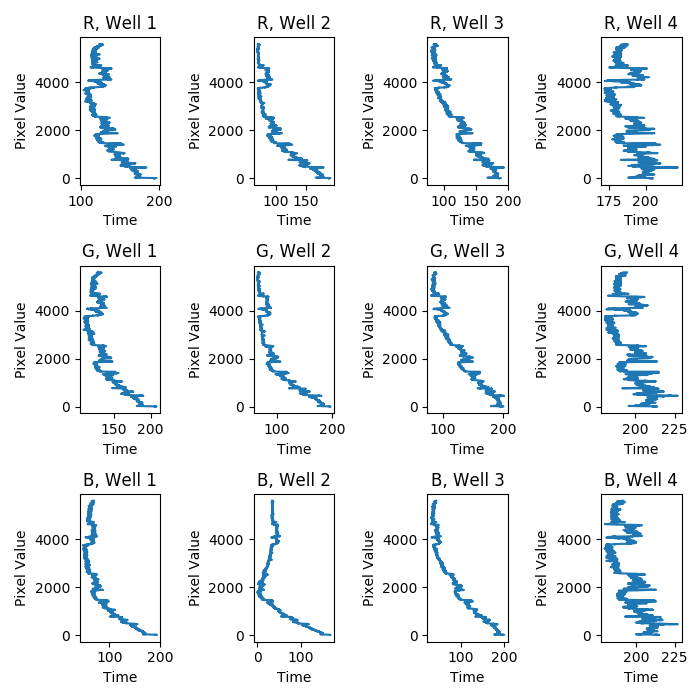
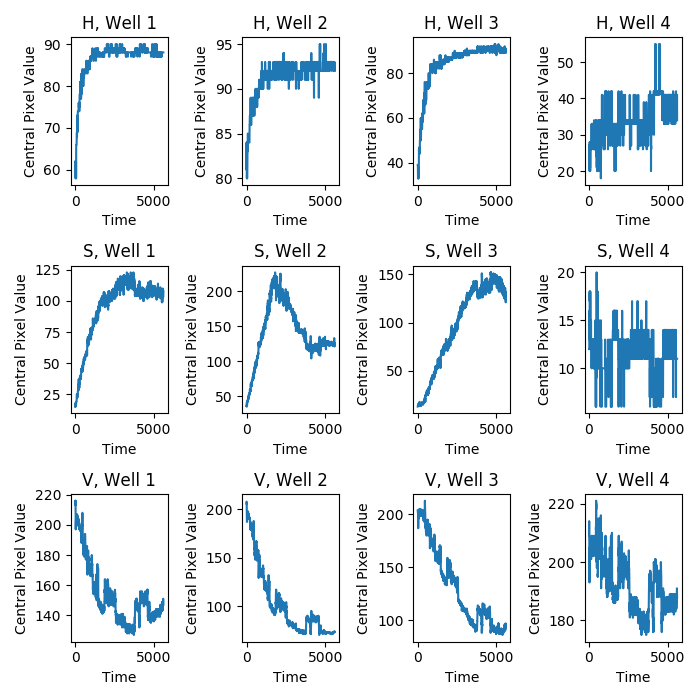
switched from rgb to hsv, fixed plot axes (flipped)

diff --git a/hrp_assay_analysis.py b/hrp_assay_analysis.py
@@ -17,16 +17,17 @@ def get_points(img):
 
 def get_colour(img, pts):
 	# get pixel value for each RGB channel for each of the 4 well plate points
-	r_vals = []
-	g_vals = []
-	b_vals = []
+	img = cv2.cvtColor(img, cv2.COLOR_BGR2HSV)
+	h_vals = []
+	s_vals = []
+	v_vals = []
 
 	for pt in pts:
-		r_vals.append(img[np.int(pt[1]), np.int(pt[0]), 0])
-		g_vals.append(img[np.int(pt[1]), np.int(pt[0]), 1])
-		b_vals.append(img[np.int(pt[1]), np.int(pt[0]), 2])
+		h_vals.append(img[np.int(pt[1]), np.int(pt[0]), 0])
+		s_vals.append(img[np.int(pt[1]), np.int(pt[0]), 1])
+		v_vals.append(img[np.int(pt[1]), np.int(pt[0]), 2])
 	
-	return r_vals, g_vals, b_vals
+	return h_vals, s_vals, v_vals
 
 
 def vid2research(input_media, some_param=1):
@@ -46,9 +47,9 @@ def vid2research(input_media, some_param=1):
 	ret, frame = cap.read()
 	points = get_points(frame)
 
-	r_vals_mat = []
-	g_vals_mat = []
-	b_vals_mat = []
+	h_vals_mat = []
+	s_vals_mat = []
+	v_vals_mat = []
 	# Read until video is completed
 	while (cap.isOpened()):
 		# capture frame-by-frame
@@ -57,10 +58,10 @@ def vid2research(input_media, some_param=1):
 		if ret == True:
 
 			# get colour values and append to colour values matrix
-			r_vals, g_vals, b_vals = get_colour(frame, points)
-			r_vals_mat.append(r_vals)
-			g_vals_mat.append(g_vals)
-			b_vals_mat.append(b_vals)
+			h_vals, s_vals, v_vals = get_colour(frame, points)
+			h_vals_mat.append(h_vals)
+			s_vals_mat.append(s_vals)
+			v_vals_mat.append(v_vals)
 
 			# display the resulting frame
 			#cv2.imshow('frame', frame)
@@ -75,7 +76,7 @@ def vid2research(input_media, some_param=1):
 	cap.release()
 	#cv2.destroyAllWindows()
 
-	return r_vals_mat, g_vals_mat, b_vals_mat
+	return h_vals_mat, s_vals_mat, v_vals_mat
 
 
 
@@ -89,10 +90,10 @@ media_path = 'videos'
 media_name = '25mgmL_THF_varying_pH'
 
 # get RGB values for each of the 4 wells for every frame
-r_mat, g_mat, b_mat = vid2research(media_path + '/' + media_name + '.mov')
-r_mat = np.array(r_mat)
-g_mat = np.array(g_mat)
-b_mat = np.array(b_mat)
+h_mat, s_mat, v_mat = vid2research(media_path + '/' + media_name + '.mov')
+h_mat = np.array(h_mat)
+s_mat = np.array(s_mat)
+v_mat = np.array(v_mat)
 
 # plotting
 fig, axs = plt.subplots(nrows=3, ncols=4, figsize=(7, 7))
@@ -100,18 +101,18 @@ fig, axs = plt.subplots(nrows=3, ncols=4, figsize=(7, 7))
 for i in range(3):
 	for j in range(4):
 		axs[i,j].set_xlabel("Time")
-		axs[i,j].set_ylabel("Pixel Value")
+		axs[i,j].set_ylabel("Central Pixel Value")
 
 for j in range(4):
-	axs[0, j].set_title("R, Well " + str(j + 1))
-	axs[1, j].set_title("G, Well " + str(j + 1))
-	axs[2, j].set_title("B, Well " + str(j + 1))
+	axs[0, j].set_title("H, Well " + str(j + 1))
+	axs[1, j].set_title("S, Well " + str(j + 1))
+	axs[2, j].set_title("V, Well " + str(j + 1))
 
-	axs[0, j].plot(r_mat[:,j], np.arange(len(r_mat[:,j])))
-	axs[1, j].plot(g_mat[:,j], np.arange(len(r_mat[:,j])))
-	axs[2, j].plot(b_mat[:,j], np.arange(len(r_mat[:,j])))
+	axs[0, j].plot(np.arange(len(h_mat[:,j])), h_mat[:,j])
+	axs[1, j].plot(np.arange(len(h_mat[:,j])), s_mat[:,j])
+	axs[2, j].plot(np.arange(len(h_mat[:,j])), v_mat[:,j])
 
 fig.tight_layout()
 output_path = 'outputs'
-plt.savefig(outputs + '/' + media_name)
+plt.savefig(output_path + '/' + media_name)
 
